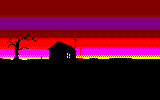
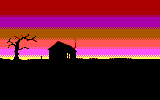
pampa: correct palette

diff --git a/tools/generate_fadeout_table.py b/tools/generate_fadeout_table.py
@@ -23,6 +23,11 @@ class Fadeout:
 
     def generate(self):
         # parse each color in order
+        self._fd.write(';=-=-=-=-=-=-=-=-=-=-=-=-=-=-=-=-=-=-=-=-=-=-=-=-=-=-=-=-=-=-=-=-=-=-=-=-=-=-=-;\n')
+        self._fd.write('; Autogenerated with generate_fadeout_table.py\n')
+        self._fd.write('; DO NOT MODIFY\n')
+        self._fd.write(';=-=-=-=-=-=-=-=-=-=-=-=-=-=-=-=-=-=-=-=-=-=-=-=-=-=-=-=-=-=-=-=-=-=-=-=-=-=-=-;\n')
+        self._fd.write('fadeout_palette_tbl:\n')
         for c in range(self._total_colors):
             self.gen_table_for_color(c)
 
